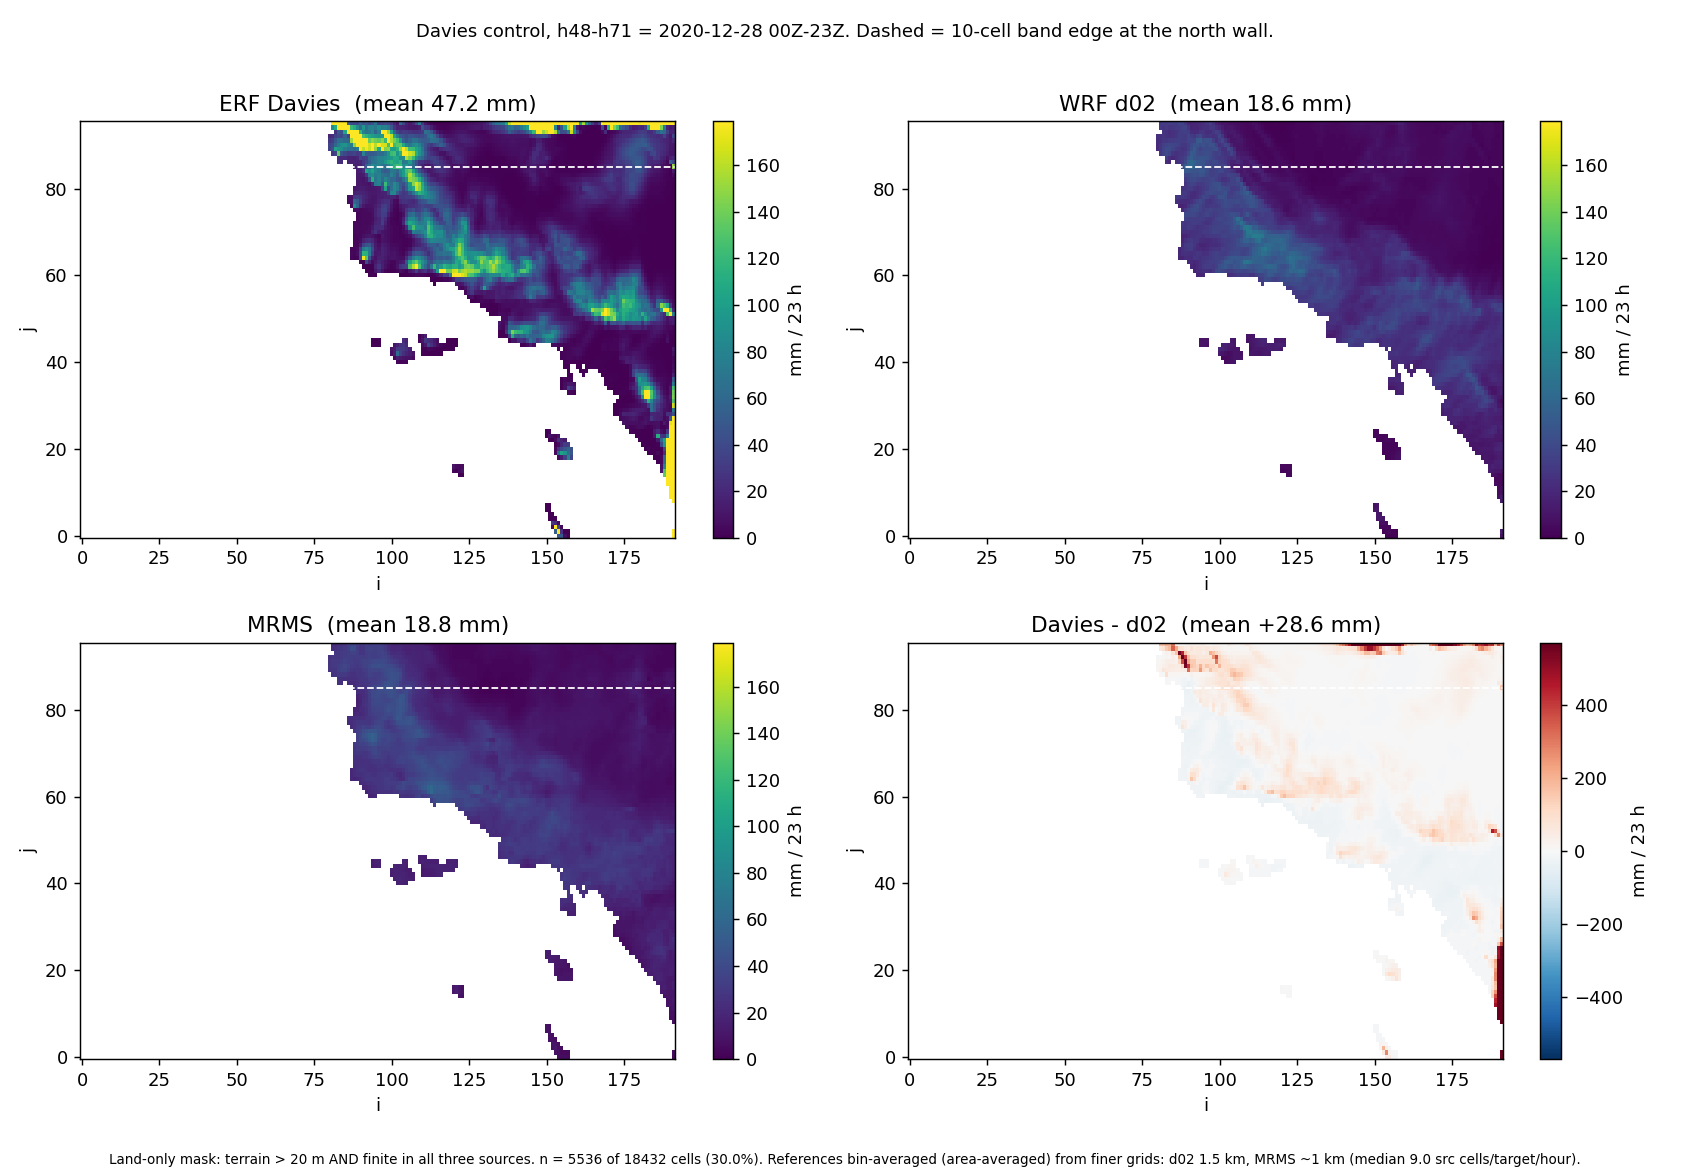
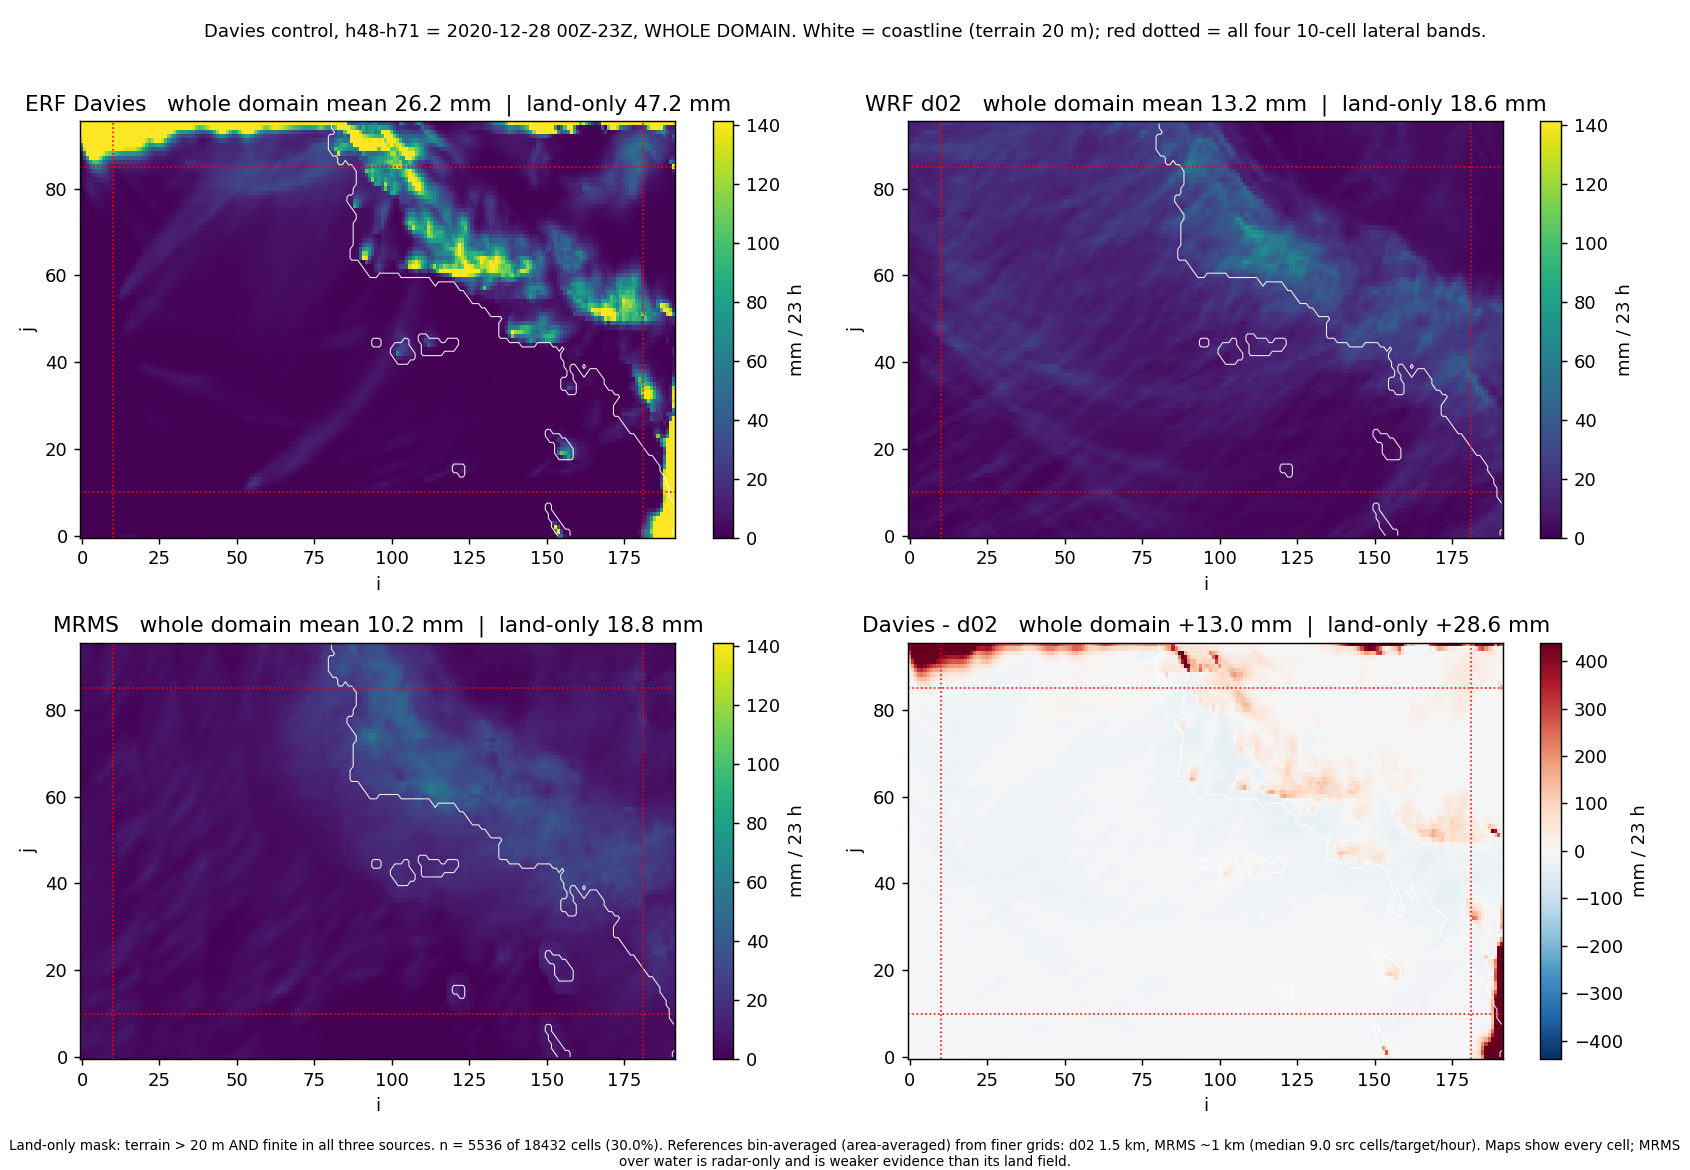
Replot the map panel over the whole domain
Land-masking the maps hid the thing they were meant to show. Over the full
192x96 the pathology is unmistakable: saturated yellow along the ENTIRE north
wall and the ENTIRE east wall, a spot at the south wall, and a difference panel
that is near-white through the whole interior.

Adds a white coastline contour (terrain 20 m) and red dotted lines at all four
10-cell band edges, and reports whole-domain alongside land-only means in every
panel title. Metrics stay land-only and unchanged. Caption notes MRMS over
water is radar-only and is weaker evidence than its land field.

diff --git a/Exec/CanonicalTests/ChannelIslands/scoring/davies_visual_pass.py b/Exec/CanonicalTests/ChannelIslands/scoring/davies_visual_pass.py
@@ -149,29 +149,44 @@ def main():
     ii, jj = np.meshgrid(np.arange(NX), np.arange(NY), indexing='ij')
     dN = NY - 1 - jj
 
-    # ---------- FIG 1: maps ----------
+    # ---------- FIG 1: maps, WHOLE DOMAIN ----------
+    # Plotted over every cell, not the land-only mask, so the boundary bands
+    # and the ocean field are visible. The METRICS stay land-only. Note MRMS
+    # over water is radar-only (no gauge constraint), so the ocean part of that
+    # panel is weaker evidence than the land part.
+    LAND = terr > 20.0
+    FULL = np.isfinite(erf_tot) & np.isfinite(d02_tot) & np.isfinite(mrms_tot)
     vmax = float(np.nanpercentile(np.concatenate(
-        [erf_tot[M], d02_tot[M], mrms_tot[M]]), 99))
+        [erf_tot[FULL], d02_tot[FULL], mrms_tot[FULL]]), 99))
     fig, ax = plt.subplots(2, 2, figsize=(13, 9))
-    show = lambda a: np.where(M, a, np.nan).T
     for k, (a, t) in enumerate([(erf_tot, 'ERF Davies'), (d02_tot, 'WRF d02'),
                                 (mrms_tot, 'MRMS')]):
-        p = ax.flat[k].imshow(show(a), origin='lower', vmin=0, vmax=vmax,
+        p = ax.flat[k].imshow(a.T, origin='lower', vmin=0, vmax=vmax,
                               cmap='viridis', aspect='auto')
-        ax.flat[k].set_title(f'{t}  (mean {np.nanmean(a[M]):.1f} mm)')
+        ax.flat[k].set_title(f'{t}   whole domain mean {np.nanmean(a):.1f} mm'
+                             f'  |  land-only {np.nanmean(a[M]):.1f} mm')
         plt.colorbar(p, ax=ax.flat[k], label='mm / 23 h')
     d = erf_tot - d02_tot
-    lim = float(np.nanpercentile(np.abs(d[M]), 99))
-    p = ax.flat[3].imshow(show(d), origin='lower', vmin=-lim, vmax=lim,
+    lim = float(np.nanpercentile(np.abs(d[FULL]), 99))
+    p = ax.flat[3].imshow(d.T, origin='lower', vmin=-lim, vmax=lim,
                           cmap='RdBu_r', aspect='auto')
-    ax.flat[3].set_title(f'Davies - d02  (mean {np.nanmean(d[M]):+.1f} mm)')
+    ax.flat[3].set_title(f'Davies - d02   whole domain {np.nanmean(d):+.1f} mm'
+                         f'  |  land-only {np.nanmean(d[M]):+.1f} mm')
     plt.colorbar(p, ax=ax.flat[3], label='mm / 23 h')
     for a in ax.flat:
-        a.axhline(NY - 1 - BAND, color='w', ls='--', lw=1)
+        a.contour(LAND.T.astype(float), levels=[0.5], colors='w',
+                  linewidths=0.6, alpha=0.9)
+        for e in (BAND, NX - 1 - BAND):
+            a.axvline(e, color='r', ls=':', lw=0.9)
+        for e in (BAND, NY - 1 - BAND):
+            a.axhline(e, color='r', ls=':', lw=0.9)
         a.set_xlabel('i'); a.set_ylabel('j')
-    fig.suptitle('Davies control, h48-h71 = 2020-12-28 00Z-23Z. '
-                 'Dashed = 10-cell band edge at the north wall.', fontsize=10)
-    fig.text(0.5, 0.005, CAP, ha='center', fontsize=7.5, wrap=True)
+    fig.suptitle('Davies control, h48-h71 = 2020-12-28 00Z-23Z, WHOLE DOMAIN. '
+                 'White = coastline (terrain 20 m); red dotted = all four '
+                 '10-cell lateral bands.', fontsize=10)
+    fig.text(0.5, 0.005, CAP + ' Maps show every cell; MRMS over water is '
+             'radar-only and is weaker evidence than its land field.',
+             ha='center', fontsize=7.5, wrap=True)
     fig.tight_layout(rect=[0, 0.03, 1, 0.97])
     fig.savefig(f'{out}/01_maps_h48_h71.png', dpi=130)
     plt.close(fig)

diff --git a/figs_davies_h48_h71/metrics.md b/figs_davies_h48_h71/metrics.md
@@ -57,7 +57,19 @@ is **5761 mm / 23 h at dN = 94** (j ~ 1, the ylo band) on 42 m terrain -- the
 same band where the dead legs' w dipole fired. RMSE 184.7 mm and the p99 of
 579 mm are driven by these band cells, not by the interior.
 
+The whole-domain maps (01_maps_h48_h71.png) show this directly: saturated
+yellow along the full north wall AND the full east wall, a spot at the south
+wall, and a difference panel that is near-white through the entire interior.
 Read plainly: in the interior this arm is a **1.2-1.3x wet bias with real
 spatial skill (r ~ 0.54)**. The 2.5x and r ~ 0 headline is a boundary-band
 artifact contaminating a domain that is only 192x96, where the four 10-cell
 bands are 33% of the land cells.
+
+## Whole-domain means (maps only; all metrics above stay land-only)
+
+| source | whole domain | land-only |
+|---|---|---|
+| ERF Davies | 26.2 mm | 47.2 mm |
+| WRF d02 | 13.2 mm | 18.6 mm |
+| MRMS | 10.2 mm | 18.8 mm |
+| Davies - d02 | +13.0 mm | +28.6 mm |
